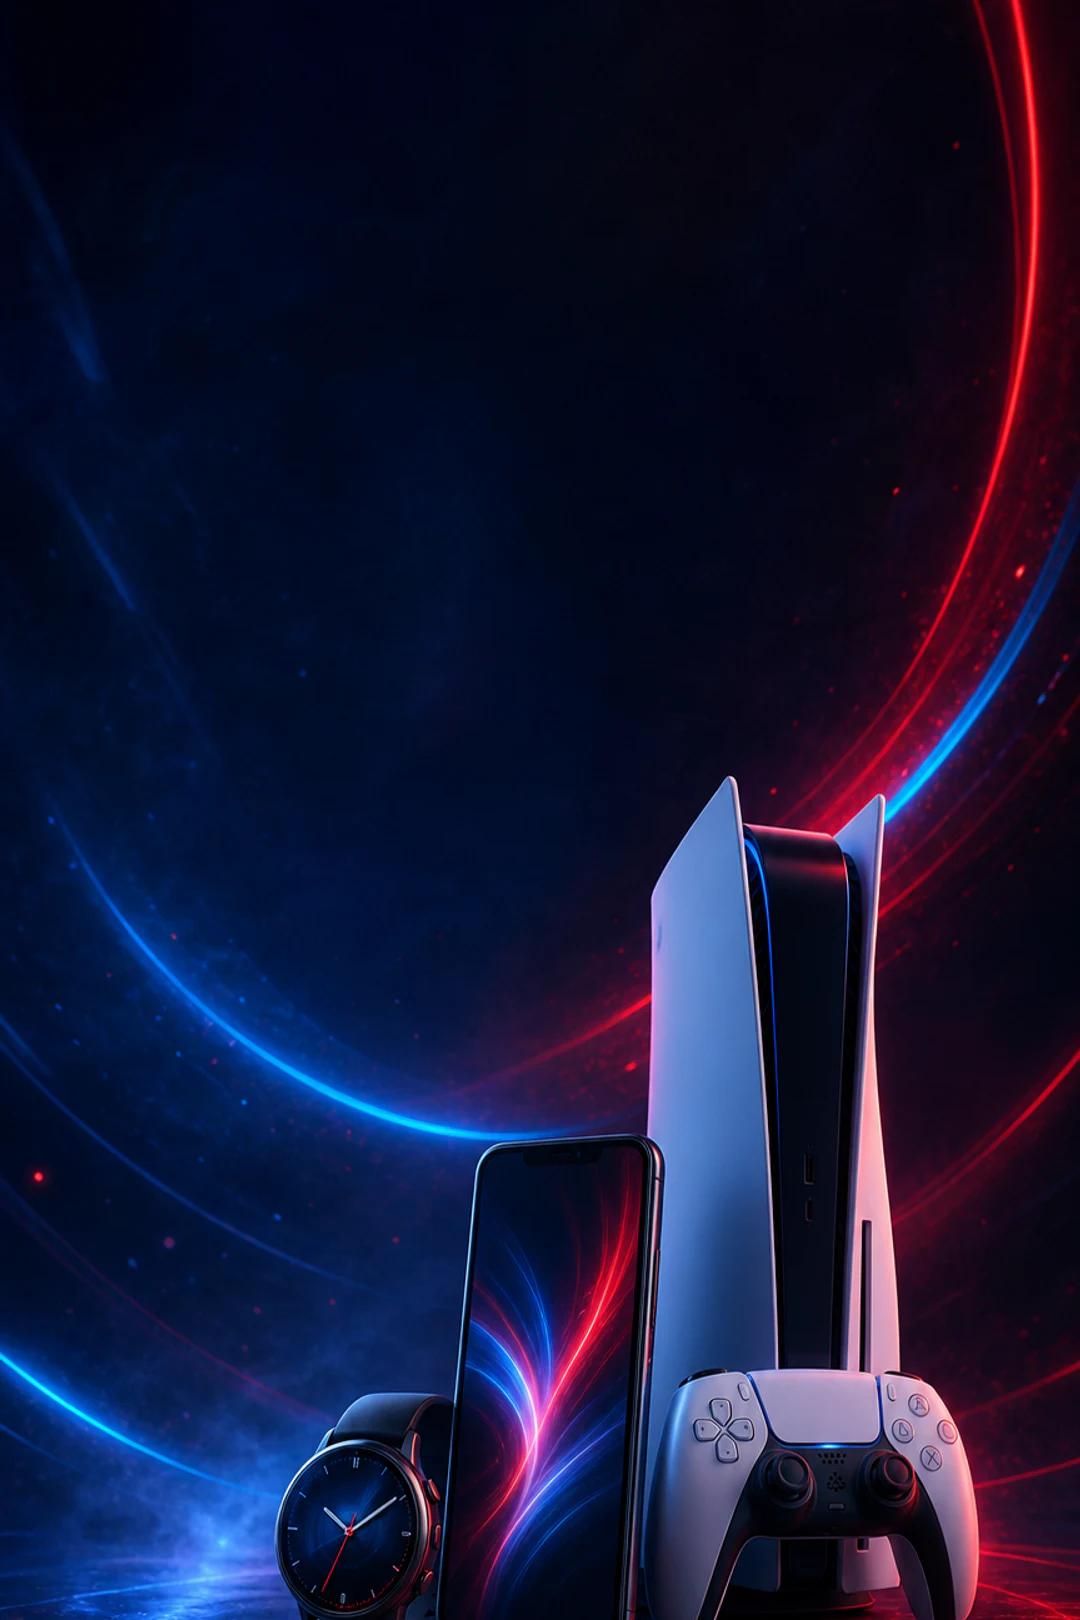
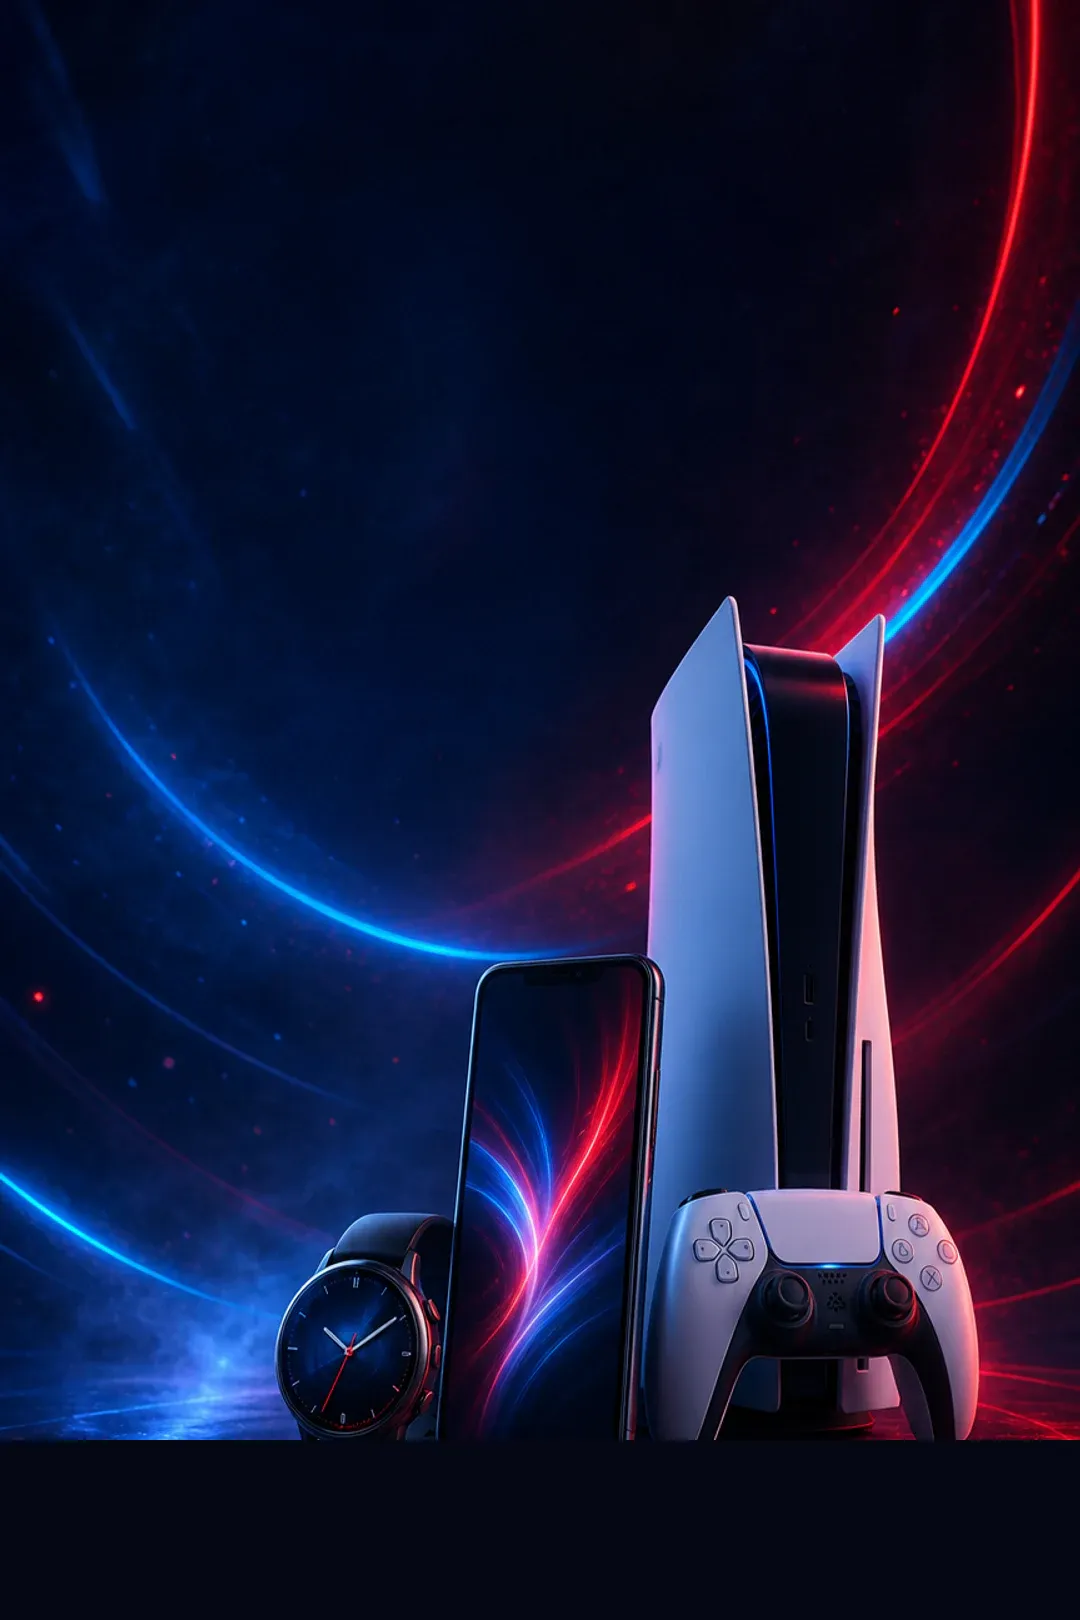
Fix homepage hero wrapping and mobile framing

diff --git a/src/app/globals.css b/src/app/globals.css
@@ -370,7 +370,10 @@
       ),
       linear-gradient(rgb(255 255 255 / 0.023) 1px, transparent 1px),
       linear-gradient(90deg, rgb(255 255 255 / 0.023) 1px, transparent 1px);
-    background-size: 42px 42px;
+    background-size:
+      100% 100%,
+      42px 42px,
+      42px 42px;
     mask-image: linear-gradient(to bottom, rgb(0 0 0 / 0.7), transparent 88%);
   }
 
@@ -554,6 +557,11 @@
       font-size: clamp(3.25rem, 4.45vw, 4.4rem);
     }
 
+    .launch-hero-workspace .launch-hero-title {
+      max-width: 620px;
+      font-size: clamp(3.1rem, 3.8vw, 3.85rem);
+    }
+
     .launch-hero-description {
       margin-top: 20px;
     }
@@ -570,12 +578,14 @@
 
   @media (max-width: 1023px) {
     .launch-hero::after {
-      background-image: url("/images/home/hero-premium-selection-mobile.webp");
+      background-image: url("/images/home/hero-premium-selection-mobile.webp?v=3");
       background-position: center;
+      background-size: cover;
     }
 
     .launch-hero-workspace::after {
-      background-image: url("/images/home/hero-workspace-mobile.webp");
+      background-image: url("/images/home/hero-workspace-mobile.webp?v=3");
+      background-position: center;
     }
 
     .launch-hero-atmosphere {
@@ -589,6 +599,10 @@
         ),
         linear-gradient(rgb(255 255 255 / 0.023) 1px, transparent 1px),
         linear-gradient(90deg, rgb(255 255 255 / 0.023) 1px, transparent 1px);
+      background-size:
+        100% 100%,
+        42px 42px,
+        42px 42px;
     }
   }
 
